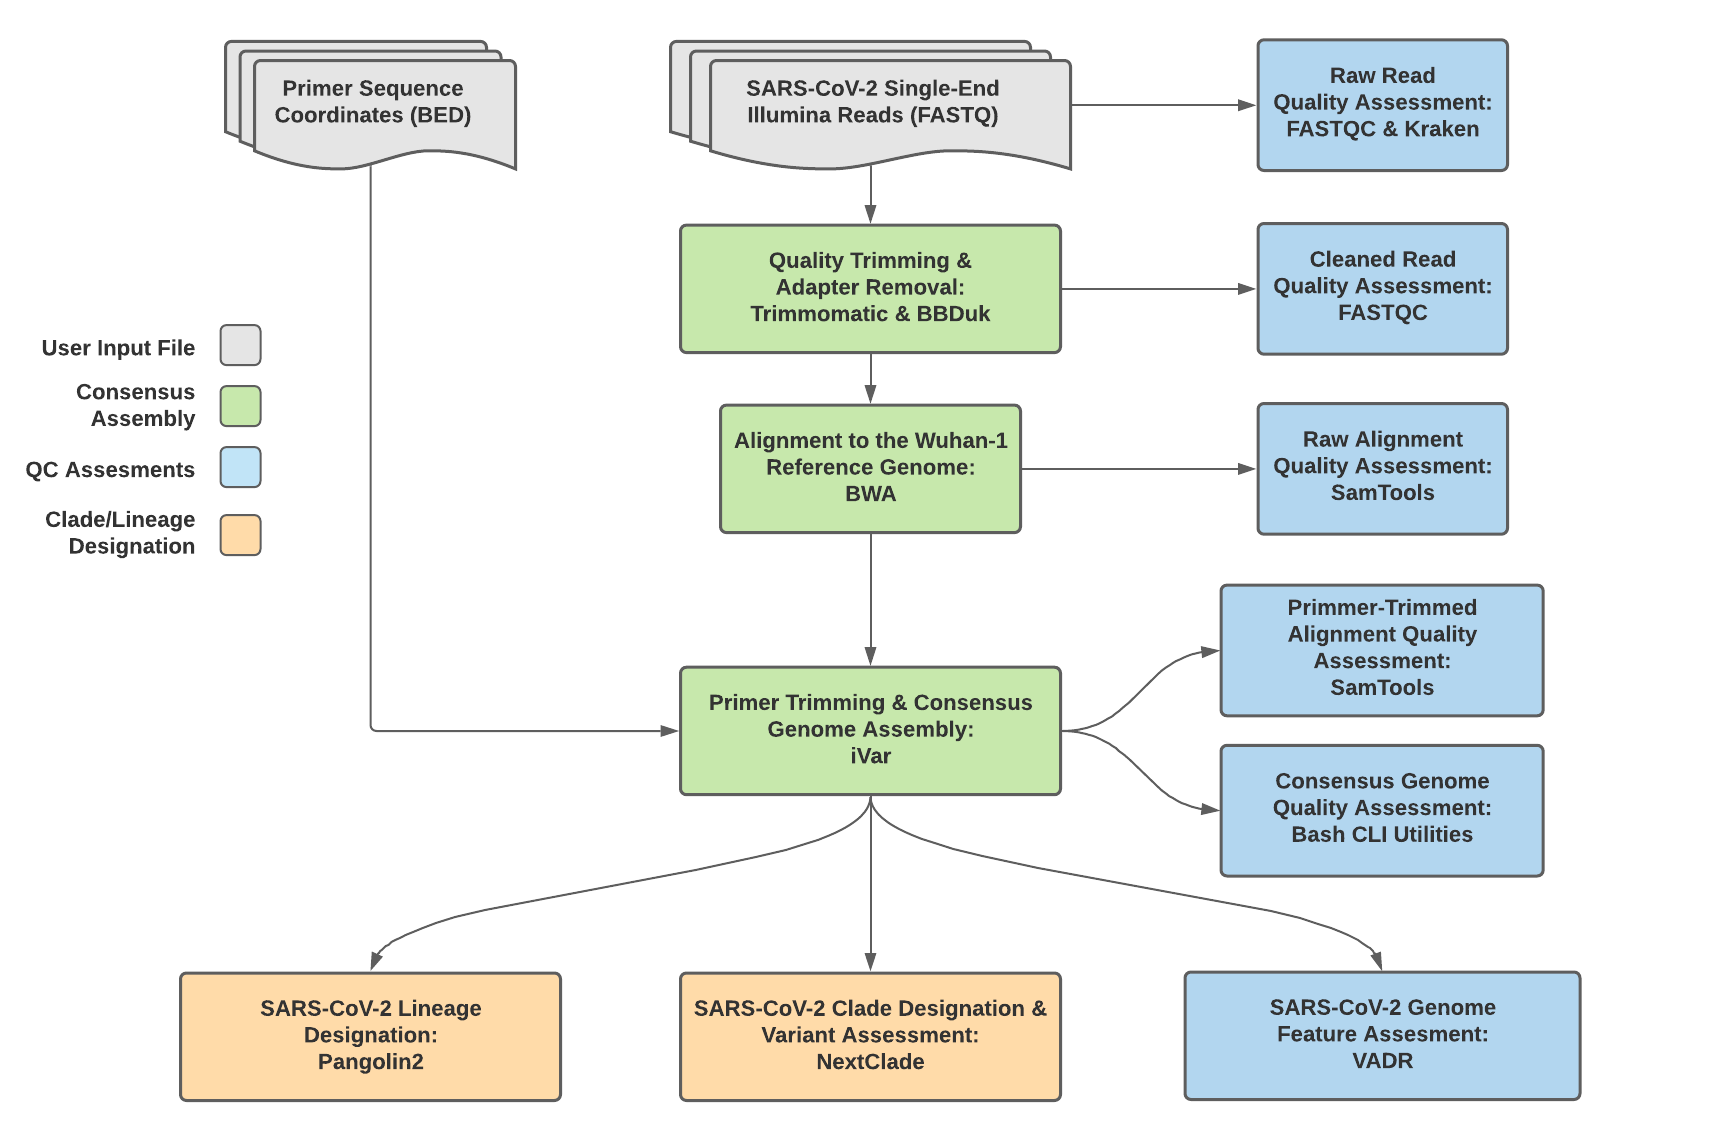
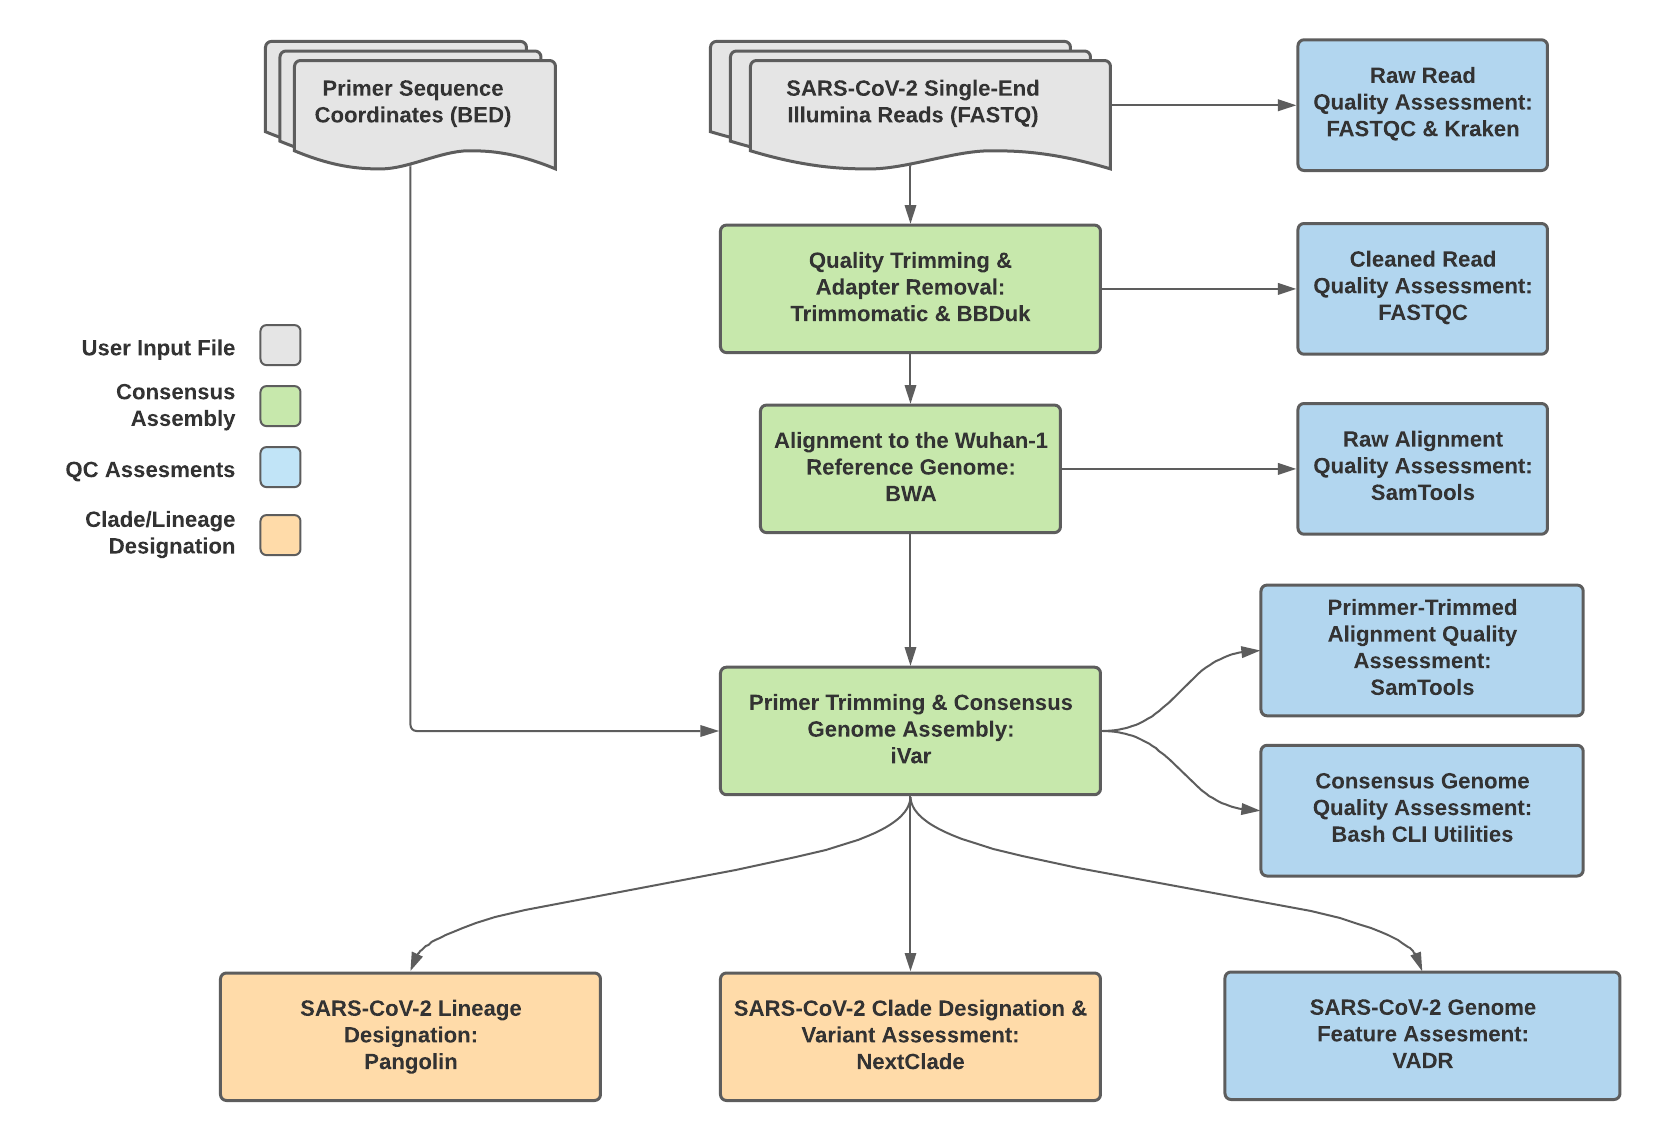
Update current Titan GC workflow docs (#81)
* start mercury and titan genomic epi docs

* Created table file for readthedocs page for augur_prep

* Added all required inputs

* Created this table for the Augur_Run readthedocs page

* Added Titan_Augur_Prep and Titan_Augur_Run

* Update Titan-GC workflow images

* add bed file to required inputs

* Update Titan ClearLabs in/out tables

* update pangolin_versions

* Update Titan_ONT in/out tables

* Update Titan_Illumina_PE in/out tables

* add primer bed file

* update Titan_Illumina_SE in/out tables

* Update titan gc workflow descriptions

diff --git a/docs/source/titan_workflows.rst b/docs/source/titan_workflows.rst
@@ -2,18 +2,20 @@
 Titan Workflow Series
 ======================
 
-The Titan Workflow Series is a collection of WDL workflows developed for performing genomic characterization and genomic epidemiology of viral samples to support public health decision-making. As of today (May 4th, 2021) these workflows are specific to SARS-CoV-2 amplicon read data, but work is underway to allow for the analysis of other viral pathogens of concern.
+The Titan Workflow Series is a collection of WDL workflows developed for performing genomic characterization and genomic epidemiology of viral samples to support public health decision-making. As of today (October 14th, 2021) these workflows are specific to SARS-CoV-2 amplicon read data, but work is underway to allow for the analysis of other viral pathogens of concern.
 
 
 Titan Workflows for Genomic Characterization
 --------------------------------------------
 Genomic characterization, *i.e.* generating consensus assemblies (FASTA format) from next-generation sequencing (NGS) read data (FASTQ format) to assign samples with relevant nomenclature designation (e.g. PANGO lineage and NextClade clades) is an increasingly critical function to public health laboratories around the world.
 
-The Titan Series includes four separate WDL workflows (Titan_Illumina_PE, Titan_Illumina_SE, Titan_ClearLabs, and Titan_ONT) that process NGS read data from four different sequencing approaches: Illumina paired-end, Illumina single-end, Clear Labs, and Oxford Nanopore Technology (ONT)) to generate consensus assemblies, produce relevant quality-control metrics for both the input read data and the generated assembly, and assign samples with a lineage and clade designation using Pangolin and NextClade, respectively.
+The Titan Genomic Characterization Series includes four separate WDL workflows (Titan_Illumina_PE, Titan_Illumina_SE, Titan_ClearLabs, and Titan_ONT) that process NGS read data from four different sequencing approaches: Illumina paired-end, Illumina single-end, Clear Labs, and Oxford Nanopore Technology (ONT)) to generate consensus assemblies, produce relevant quality-control metrics for both the input read data and the generated assembly, and assign samples with a lineage and clade designation using Pangolin and NextClade, respectively. 
 
 All four Titan workflows for genomic characterization will generate a viral assembly by mapping input read data to a reference genome, removing primer reads from that alignment, and then calling the consensus assembly based on the primer-trimmed alignment. These consensus assemblies are then fed into the Pangolin and NextClade CLI tools for lineage and clade assignments.
 
-The major difference between each of these Titan workflows is in how the read mapping, primer trimming, and consensus genome calling is performed. More information on the technical details of these processes and information on how to utilize and apply these workflows for public health investigations is available below.
+The major difference between each of these Titan Genomic Characterization workflows is in how the read mapping, primer trimming, and consensus genome calling is performed. More information on the technical details of these processes and information on how to utilize and apply these workflows for public health investigations is available below.
+
+A fifth WDL workflow, Titan_FASTA, was added to take in assembled SC2 genomes, perform basic QC (e.g. number of Ns), and assign samples with a lineage and clade designation using Pangolin and NextClade, respectively.
 
 A series of introductory training videos that provide conceptual overviews of methodologies and walkthrough tutorials on how to utilize these Titan workflows through Terra are available on the Theiagen Genomics YouTube page:
 
@@ -26,7 +28,7 @@ A series of introductory training videos that provide conceptual overviews of me
 
 Titan_Illumina_PE
 =================
-The Titan_Illumina_PE workflow was written to process Illumina paired-end (PE) read data. Input reads are assumed to be the product of sequencing tiled PCR-amplicons designed for the SARS-CoV-2 genome. The most common read data analyzed by the Titan_Illumina_PE workflow are generated with the Artic V3 protocol. Alternative primer schemes such as the Qiaseq Primer Panel, however, can also be analysed with this workflow. The primer sequence coordinates of the PCR scheme utilized must be provided along with the raw paired-end Illumina read data in BED and FASTQ file formats, respectively. 
+The Titan_Illumina_PE workflow was written to process Illumina paired-end (PE) read data. Input reads are assumed to be the product of sequencing tiled PCR-amplicons designed for the SARS-CoV-2 genome. The most common read data analyzed by the Titan_Illumina_PE workflow are generated with the Artic V3 protocol. Alternative primer schemes such as the Qiaseq Primer Panel, the Swift Amplicon SARS-CoV-2 Panel and the Artic V4 Amplicon Sequencing Panel however, can also be analysed with this workflow since the primer sequence coordinates of the PCR scheme utilized must be provided along with the raw paired-end Illumina read data in BED and FASTQ file formats, respectively. 
 
 .. note::
   By default, this workflow will assume that input reads were generated using a 300-cycle kit (i.e. 2 x 150 bp reads). Modifications to the optional parameter for trimmomatic_minlen may be required to accommodate for shorter read data, such as 2 x 75bp reads generated using a 150-cycle kit.
@@ -80,7 +82,7 @@ Download CSV: :download:`Titan_Illumina_PE_default_outputs.csv <tables/titan_wor
 
 Titan_Illumina_SE
 =================
-The Titan_Illumina_SE workflow was written to process Illumina single-end (SE) read data. Input reads are assumed to be the product of sequencing tiled PCR-amplicons designed for the SARS-CoV-2 genome. The most common read data analyzed by the Titan_Illumina_SE workflow are generated with the Artic V3 protocol. Alternative primer schemes such as the Qiaseq Primer Panel, however, can also be analysed with this workflow. The primer sequence coordinates of the PCR scheme utilized must be provided along with the raw paired-end Illumina read data in BED and FASTQ file formats, respectively. 
+The Titan_Illumina_SE workflow was written to process Illumina single-end (SE) read data. Input reads are assumed to be the product of sequencing tiled PCR-amplicons designed for the SARS-CoV-2 genome. The most common read data analyzed by the Titan_Illumina_SE workflow are generated with the Artic V3 protocol. Alternative primer schemes such as the Qiaseq Primer Panel, however, can also be analysed with this workflow since the primer sequence coordinates of the PCR scheme utilized must be provided along with the raw paired-end Illumina read data in BED and FASTQ file formats, respectively. 
 
 .. note::
   By default, this workflow will assume that input reads were generated using a 35-cycle kit (i.e. 1 x 35 bp reads). Modifications to the optional parameter for trimmomatic_minlen may be required to accommodate for longer read data.
@@ -134,7 +136,7 @@ Download CSV: :download:`Titan_Illumina_SE_default_outputs.csv <tables/titan_wor
 
 Titan_ClearLabs
 =================
-The Titan_ClearLabs workflow was written to process ClearLabs WGS read data for SARS-CoV-2 Artic V3 amplicon sequencing. 
+The Titan_ClearLabs workflow was written to process ClearLabs WGS read data for SARS-CoV-2 amplicon sequencing. Currently, Clear Labs sequencing is performed with the Artic V3 protocol. If alternative primer schemes such as the Qiaseq Primer Panel, the Swift Amplicon SARS-CoV-2 Panel and the Artic V4 Amplicon Sequencing Panel become avaialble on the platform, these data can can also be analysed with this workflow since the primer sequence coordinates of the PCR scheme utilized must be provided along with the raw Clear Labs read data must be provided in BED and FASTQ file formats, respectively. 
 
 Upon initiating a Titan_ClearLabs run,  input ClearLabs read data provided for each sample will be processed to perform consensus genome assembly, infer the quality of both raw read data and the generated consensus genome, and assign samples SARS-CoV-2 lineage and clade types as outlined in the Titan_ClearLabs data workflow below.
 
@@ -189,7 +191,7 @@ Download CSV: :download:`Titan_ClearLabs_default_outputs.csv <tables/titan_workf
 
 Titan_ONT
 =========
-The Titan_ONT workflow was written to process basecalled and demultiplexed Oxford Nanopore Technology (ONT) read data. IInput reads are assumed to be the product of sequencing Artic V3 tiled PCR-amplicons designed for the SARS-CoV-2 genome.  
+The Titan_ONT workflow was written to process basecalled and demultiplexed Oxford Nanopore Technology (ONT) read data. The most common read data analyzed by the Titan_ONT workflow are generated with the Artic V3 protocol. Alternative primer schemes such as the Qiaseq Primer Panel, the Swift Amplicon SARS-CoV-2 Panel and the Artic V4 Amplicon Sequencing Panel however, can also be analysed with this workflow since the primer sequence coordinates of the PCR scheme utilized must be provided along with the raw paired-end Illumina read data in BED and FASTQ file formats, respectively. 
 
 .. note::
   As of May 2021, alternative primer schemes are not currently supported for the Titan_ONT workflow, but active development us underway to allow for such analysis in the near future.
@@ -241,4 +243,51 @@ Download CSV: :download:`Titan_ONT_default_outputs.csv <tables/titan_workflows/t
    
 |
 
+Titan Workflows for Genomic Epidemiology
+--------------------------------------------
 
+Genomic Epidemiology, i.e. generating phylogenetic trees from a set of consensus assemblies (FASTA format) to track the spread and evolution of viruses on a local, national or global scale, has been an important methodological approach in the effort to mitigate disease transmission.
+
+The Titan Genomic Epidemiology Series contains two seperate WDL workflows (Titan_Augur_Prep and Titan_Augur_Run) that process a set of viral genomic assemblies to generate phylogenetic trees (JSON format) and metadata files which can be used to assign epidemiological data to each assembly for subsequent analyses.
+
+The two Titan workflows for genomic epidemiology must be run sequentially to first prepare the data for phylogenetic analysis and second to generate the phylogenetic trees. More information on the technical details of these processes and information on how to utilize and apply these workflows for public health investigations is available below.
+
+Required User Inputs
+********************
+Download CSV: :download:`Titan_Augur_Prep_required_inputs.csv <tables/titan_workflows/titan_augur_prep_required_inputs.csv>`
+
+.. csv-table::
+   :file: tables/titan_workflows/titan_augur_prep_required_inputs.csv
+   :widths: 20, 20, 20, 40
+   :header-rows: 1
+|
+
+Titan_Augur_Prep
+================
+The Titan_Augur_Prep workflow was written to process consensus assemblies (FASTA format) and the associated metadata in preparation for running the Titan_Augur_Run. Input assemblies should be of similar quality (percent reference coverage, number of ambiguous bases, etc.). Inputs with highly discordant quality metrics may result in innacurate inference of genetic relatedness.
+
+.. note::
+  There must be some sequence diversity in the input set of assemblies to be analyzed. As a rule of thumb, the smaller the input set, the more sequence diversity will be required to make any sort of genomic inference. If a small (~10) set of viral genomic assemblies is used as the input then it may be necessary to add one significantly divergent assembly.
+  
+Upon initiating a Titan_Augur_Prep run, input assembly/consensus files and associated metadata will be used to produce the array of assembly/consensus files and the array of metadata files to be used as inputs for the Titan_Augur_Run workflow.
+
+Metadata files are prepared with the Auger_Prep workflow by using BASH commands to first de-identify, and then to parse the headers of the input assembly files. 
+
+|
+
+Titan_Augur_Run
+===============
+The Titan_Augur_Run workflow was written to process an array of assembly/consensus files (FASTA format) and and array of sample metadata files (TSV format) using a modified version of The Broad Institute's sarscov2_nextstrain WDL workflow to create an Auspice JSON file; output from the modified sarscov2_nextstrain workflow will also be used to infer SNP distances and create a static PDF report.
+
+Upon initiating a Titan_Augur_Run run, the input assembly/consensus file array and the associated metadata file array will be used to generate a JSON file that is compatible with phylogenetic tree building software. This JSON can then be used in Auspice or Nextstrain to view the phylogenetic tree. This phylogeneic tree can be used in genomic epidemiological analysis to visualize the genetic relatedness of a set of samples. The associated metadata can then be used to add context to the phylogenetic visualization.
+
+Required User Inputs
+********************
+Download CSV: :download:`Titan_Augur_Run_required_inputs.csv <tables/titan_workflows/titan_augur_prep_required_inputs.csv>`
+
+.. csv-table::
+   :file: tables/titan_workflows/titan_augur_run_required_inputs.csv
+   :widths: 20, 20, 20, 40
+   :header-rows: 1
+
+|

diff --git a/docs/source/mercury_workflows.rst b/docs/source/mercury_workflows.rst
@@ -1,0 +1,15 @@
+======================
+Mercury Workflow Series
+======================
+
+{info about genomic mercury workflows}
+
+
+Mercury_SE_Prep
+================
+
+Mercury_PE_Prep
+===============
+
+Mercury_Batch
+===============
